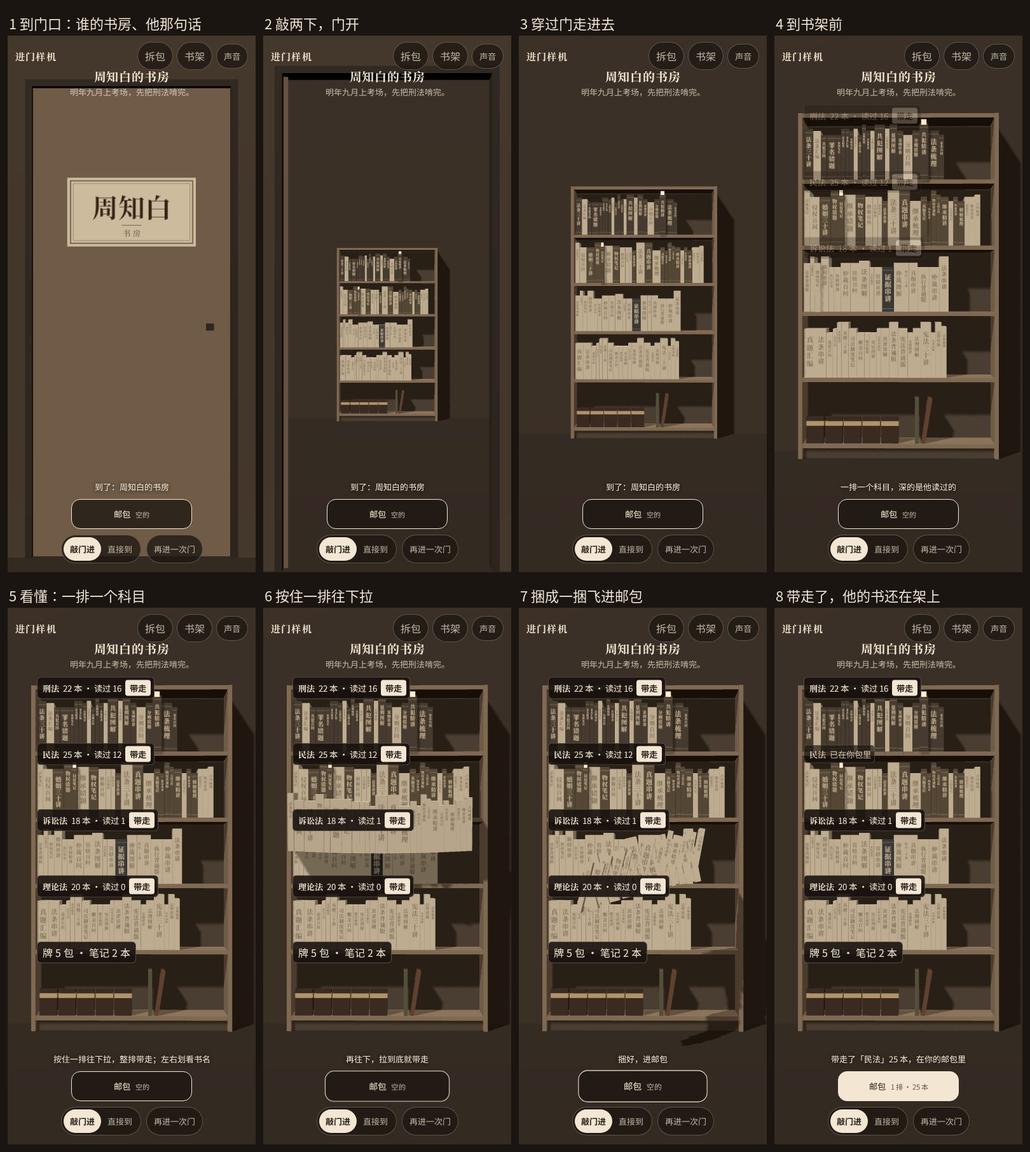
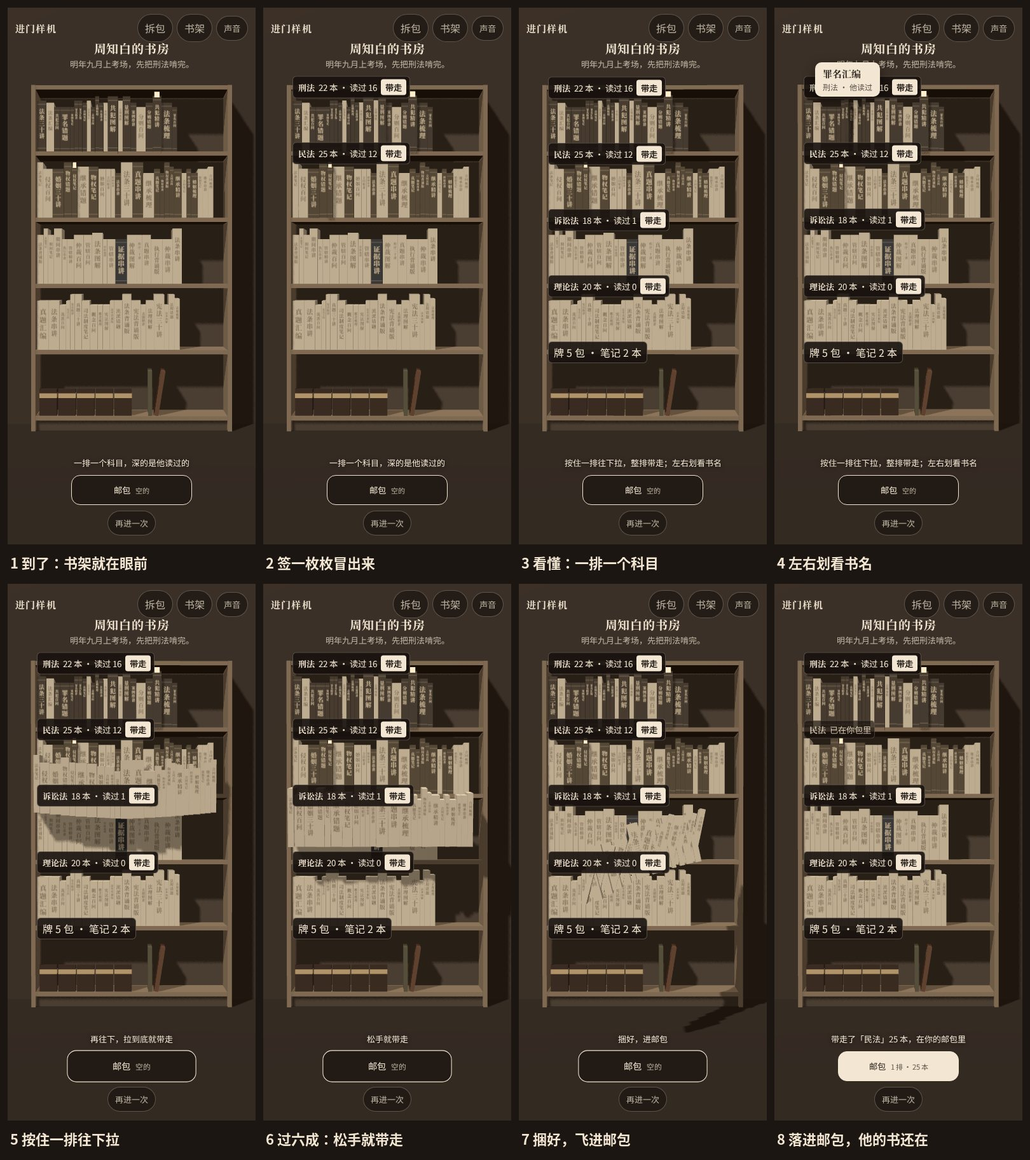
进门样机：进法定「直接到」（用户上手后定），默认直接到、去掉页面上的切换，敲门进留 ?way=knock 对照；流程测试按新默认改、对照的敲门进另走一遍；分镜图按新八拍重拍；说明与 STATUS 同步

diff --git a/lab/door.js b/lab/door.js
@@ -2,18 +2,19 @@
  * 外观是占位的，不在这里讨论。节拍照拆包那一轮定的「热闹」的力度来。人名、那句话、书名都是编的。
  *
  * 节拍：
- *   1 到门口 一扇门，门上一块门牌写着名字；屏幕顶上是「谁的书房」和他自己写的一句话（从头到尾都在）
- *   2 敲门   两下，门开，镜头穿过门走到书架前（点一下屏幕快进）；另一种进法「直接到」不要门，书架直接在眼前，两种对着比
- *   3 看懂   一座书架，一排一个科目；层板边上的签一枚枚冒出来（科目、多少本、读过多少），那一排书跟着抖一下。
+ *   1 到     点开链接，书架直接在眼前；屏幕顶上是「谁的书房」和他自己写的一句话（从头到尾都在）
+ *   2 看懂   一座书架，一排一个科目；层板边上的签一枚枚冒出来（科目、多少本、读过多少），那一排书跟着抖一下。
  *            读没读和书架样机同一套：浅的没读、深的读过、探出来带签的在读。最下面一层是他的牌盒和本子（样机里只是摆着）
- *   4 划过   手指按在书脊上左右划，碰到哪本哪本探头、报书名（只是看，不抽出来）
- *   5 带走   按住一排往下拉：这一排的一份（包着白纸，到你手里都是没读的）跟着手指一本本从架上出来，一本一声一震；
+ *   3 划过   手指按在书脊上左右划，碰到哪本哪本探头、报书名（只是看，不抽出来）
+ *   4 带走   按住一排往下拉：这一排的一份（包着白纸，到你手里都是没读的）跟着手指一本本从架上出来，一本一声一震；
  *            拉到底就带走，过了六成松手也带走，没到就弹回去。捆成一捆飞进底下的邮包。原来的书还在他的架上。
  *            层板上那枚签点一下，也是带走这一排
- *   6 邮包   点邮包看带走了什么；可以倒回去重来
+ *   5 邮包   点邮包看带走了什么；可以倒回去重来
  *
  * 结构：动画轨、声音、舞台、书的样子、架子都在 kit.js（和书架样机共用）；这里是门、这一位主人的书、带走的手势。
- * 调试：地址加 ?dev 显示帧率与状态，?way=direct 直接到；window.__lab 给测试脚本用。 */
+ * 进法：2026-11-12 用户在手机上两种都试过，定「直接到」，不要敲门那一段。敲门进（一扇门、门牌、敲两下、门开、镜头穿过门）
+ *   留在代码里对照用，地址加 ?way=knock 才走，页面上不再有切换。
+ * 调试：地址加 ?dev 显示帧率与状态；window.__lab 给测试脚本用。 */
 import { THREE, clamp, lerp, rad, E, vib, rng, createTracks, createAudio, createStage, lightCase, createBookKit, createCase, DIM, STN, CJK, PAPER } from "./kit.js";
 
 const Q = new URLSearchParams(location.search), DEV = Q.has("dev");
@@ -21,11 +22,11 @@ const $ = (s) => document.querySelector(s);
 
 /* ---------- 手感参数（要调就调这张表） ---------- */
 const P = {
-  knock1: .28, knock2: .5,       // 两下敲门各在什么时候
+  directLabels: .15, labelGap: .13,   // 到了以后签从什么时候开始冒、一枚隔多久
+  knock1: .28, knock2: .5,       // 以下四行只有 ?way=knock 用：两下敲门各在什么时候
   open: .74, openDur: .42,       // 门什么时候开、开多久
   push: .9, pushDur: .95,        // 镜头什么时候进门、走多久
-  labels: 1.5, labelGap: .13,    // 敲门进：签从什么时候开始冒、一枚隔多久
-  directLabels: .15,             // 直接到：签从什么时候开始冒
+  labels: 1.5,                   // 敲门进：签从什么时候开始冒
   pullPx: 150,                   // 往下拉多少像素算拉到底
   commit: .6,                    // 拉过这个比例松手就带走，没到弹回去
   outZ: 4, dropMax: 46,          // 带走的那一份：出了书架再往外多少厘米、跟着手指最多往下走多少厘米
@@ -100,7 +101,7 @@ const { w: caseW, h: caseH } = caseKit.build(W, R);
   for (let k = 0; k < PROPS.notes; k++) { box(1.9, 21, 15, x + 1 + (k ? 2.4 : 0), y0 + 10.4, -RECESS - 7.5, noteMats[k], k ? -.16 : 0); x += 2.2; }
 }
 
-/* ---------- 门：一面墙开一个门洞，门扇上钉着门牌 ---------- */
+/* ---------- 门（只有 ?way=knock 用）：一面墙开一个门洞，门扇上钉着门牌 ---------- */
 const DW = 86, DH = 204, EYE = 150, LOOK = 110, PLW = 56, PLH = 30;   // 门宽、门高、门牌挂多高、门外镜头看多高、门牌的宽与高
 const doorG = new THREE.Group(); scene.add(doorG);
 const doorPivot = new THREE.Group(); doorPivot.position.set(-DW / 2, 0, 0); doorG.add(doorPivot);
@@ -121,7 +122,7 @@ const doorPivot = new THREE.Group(); doorPivot.position.set(-DW / 2, 0, 0); door
 
 /* ---------- 状态 ---------- */
 const S = {
-  state: "boot", way: Q.get("way") === "direct" ? "direct" : "knock", ent: 0, lean: 0, hot: -1, pull: null, bag: [], fast: false, manual: false,
+  state: "boot", way: Q.get("way") === "knock" ? "knock" : "direct", ent: 0, lean: 0, hot: -1, pull: null, bag: [], fast: false, manual: false,
   t: 0, tEnter: 0, tIdle: 0, shake: 0, freeze: 0, lastTick: 0, par: { x: 0, y: 0, tx: 0, ty: 0 },
 };
 const CAM = { dist: 300, y: 80, fov: 34, wpp: 1, dz: 400, sd: 200 };
@@ -137,7 +138,7 @@ const SFX = {
   no() { tone({ f: 200, f2: 150, dur: .12, gain: .12, type: "triangle" }); },
 };
 
-/* ---------- 镜头：门外凑在门牌前，进了门整座书架装进一屏 ---------- */
+/* ---------- 镜头：整座书架装进一屏（敲门进时先在门外，再走进来） ---------- */
 function avail() {
   const vw = innerWidth, vh = innerHeight, portrait = vh >= vw, top = portrait ? 122 : 112, bot = portrait ? 178 : 156, side = portrait ? 12 : 28;
   return { vw, vh, top, bot, side, w: vw - 2 * side, h: vh - top - bot };
@@ -229,7 +230,6 @@ function ui() {
     : S.state === "pull" ? (pl && pl.pT >= P.commit ? "松手就带走" : "再往下，拉到底就带走")
       : S.state === "take" ? "捆好，进邮包"
         : S.last != null ? "带走了「" + ROWS[S.last].name + "」" + ROWS[S.last].n + " 本，在你的邮包里" : "按住一排往下拉，整排带走；左右划看书名";
-  document.querySelectorAll("#seg-way button").forEach((b) => b.setAttribute("aria-pressed", String(b.dataset.way === S.way)));
   $("#snd").setAttribute("aria-pressed", String(AU.on));
 }
 function showTip(b, x, y) {
@@ -255,7 +255,7 @@ function openSheet() {
 }
 const closeSheet = () => sheet.classList.remove("on");
 
-/* ---------- 进门 ---------- */
+/* ---------- 进门：直接到；敲门进只留作对照 ---------- */
 function enter(way) {
   clearTracks(); S.way = way || S.way; S.state = "door"; S.fast = false; S.pull = null; S.last = null; S.tEnter = S.t; S.tIdle = 0; setHot(-1); closeSheet(); bag.classList.remove("aim");
   labEls.forEach((o) => o.el.classList.remove("on")); owner.classList.add("on");          // 谁的书房、那句话：从到门口起就在顶上
@@ -365,7 +365,6 @@ function endPointer(ev) {
 }
 canvas.addEventListener("pointerup", endPointer); canvas.addEventListener("pointercancel", endPointer);
 canvas.addEventListener("pointerleave", (ev) => { if (ev.pointerType === "mouse" && G.id === -1 && S.state === "idle") setHot(-1); });
-document.querySelectorAll("#seg-way button").forEach((b) => b.addEventListener("click", () => { au(true); enter(b.dataset.way); }));
 $("#b-again").addEventListener("click", () => { au(true); enter(S.way); });
 bag.addEventListener("click", () => { au(true); if (S.state === "idle") openSheet(); });
 $("#b-close").addEventListener("click", closeSheet);
@@ -386,7 +385,7 @@ function tick(raw) {
   S.t += dt; S.shake *= Math.exp(-10 * raw);
   stepTracks(dt); placeCamera(raw); applyBooks(dt ? raw : 0); placeLabels();
   renderer.render(scene, camera);
-  if (devEl) devEl.textContent = S.state + " · " + S.way + (S.tIdle ? " · 进门到看懂 " + S.tIdle.toFixed(2) + " 秒" : "") + "\n" + fps.toFixed(0) + " fps · " + renderer.info.render.calls + " calls";
+  if (devEl) devEl.textContent = S.state + " · " + S.way + (S.tIdle ? " · 点开到能动 " + S.tIdle.toFixed(2) + " 秒" : "") + "\n" + fps.toFixed(0) + " fps · " + renderer.info.render.calls + " calls";
 }
 
 /* ---------- 开场 ---------- */

diff --git a/lab/door.html b/lab/door.html
@@ -18,11 +18,7 @@
   .bar h1 small{display:block;margin-top:5px;font:400 11px/1 "Noto Sans SC",sans-serif;letter-spacing:0;color:var(--ink-2)}
   .go,.snd,.mini{appearance:none;color:var(--ink-2);font:500 14px/1 inherit;font-family:inherit;padding:9px 11px;border-radius:999px;cursor:pointer;background:var(--pane);border:1px solid var(--line);white-space:nowrap;text-decoration:none}
   .snd[aria-pressed="false"]{text-decoration:line-through;opacity:.7}
-  .seg{display:flex;padding:3px;border-radius:999px;background:var(--pane);border:1px solid var(--line)}
-  .seg button{appearance:none;border:0;background:none;color:var(--ink-2);font:500 14px/1 inherit;font-family:inherit;padding:9px 12px;border-radius:999px;cursor:pointer;white-space:nowrap}
-  /* 选中：实心底、深字、加粗，不靠颜色区分 */
-  .seg button[aria-pressed="true"]{background:var(--ink);color:#2A221C;font-weight:700}
-  /* 进了门以后顶上的门牌：这是谁的书房、他自己写的一句话 */
+  /* 顶上的门牌：这是谁的书房、他自己写的一句话 */
   .owner{position:fixed;left:0;right:0;top:calc(52px + env(safe-area-inset-top,0px));padding:0 16px;text-align:center;pointer-events:none;opacity:0;transform:translateY(-8px);transition:opacity .25s,transform .3s}
   .owner.on{opacity:1;transform:none}
   .owner b{display:block;font:700 19px/1.25 "Noto Serif SC","Songti SC",serif;letter-spacing:.04em}
@@ -64,7 +60,7 @@
   .sheet .main{appearance:none;border:0;background:var(--ink);color:#2A221C;font:700 15px/1 inherit;font-family:inherit;padding:13px 22px;border-radius:12px;cursor:pointer}
   .dev{position:fixed;left:8px;top:110px;font:11px/1.4 "IBM Plex Mono",monospace;color:#fff;background:rgba(0,0,0,.5);padding:4px 6px;border-radius:4px;pointer-events:none;white-space:pre}
   .nogl{position:fixed;inset:0;display:grid;place-items:center;padding:24px;text-align:center;line-height:1.7}
-  @media (max-width:420px){.bar h1 small{display:none}.seg button{padding:9px 10px;font-size:13px}.mini{font-size:13px}}
+  @media (max-width:420px){.bar h1 small{display:none}.mini{font-size:13px}}
 </style>
 </head>
 <body>
@@ -82,11 +78,7 @@
   <p class="hint" id="hint" aria-live="polite">到了…</p>
   <button type="button" class="bag" id="bag">邮包<small id="bag-n">空的</small></button>
   <div class="ctl">
-    <div class="seg" id="seg-way" role="group" aria-label="进法">
-      <button type="button" data-way="knock" aria-pressed="true">敲门进</button>
-      <button type="button" data-way="direct" aria-pressed="false">直接到</button>
-    </div>
-    <button type="button" class="mini" id="b-again">再进一次门</button>
+    <button type="button" class="mini" id="b-again">再进一次</button>
   </div>
 </footer>
 <section class="sheet" id="sheet">

diff --git a/tools/tests/lab_door_test.py b/tools/tests/lab_door_test.py
@@ -1,5 +1,5 @@
-"""进门样机（lab/door.html）：到门口、敲门、进门、看懂（层板上的签）、左右划看书名、往下拉带走一排（没到弹回、过六成带走、拉到底自己带走）、
-点签带走、邮包、倒回去重来、直接到；手机竖屏走一遍真的指针操作，再按帧截分镜。
+"""进门样机（lab/door.html）：直接到（2026-11-12 用户定，页面上没有切换）、看懂（层板上的签）、左右划看书名、往下拉带走一排（没到弹回、过六成带走、
+拉到底自己带走）、点签带走、邮包、倒回去重来、再进一次；留作对照的敲门进（?way=knock）也走一遍；手机竖屏走真的指针操作，再按帧截分镜。
 用法：python3 tools/tests/lab_door_test.py           # 自己起模拟服务（端口 8796），软件渲染，约两三分钟
 截图落在 tools/out/lab/（已 gitignore）。样机看的是手感，这条测试只保证流程走得通、不报错。"""
 import os, sys, time, subprocess, urllib.request
@@ -42,11 +42,11 @@ try:
             pg.mouse.move(x, y); pg.mouse.down(); pg.wait_for_timeout(80); pg.mouse.move(x + 2, y + dy, steps=12); pg.wait_for_timeout(hold)
 
         pg.goto(B + "/lab/door.html?dev"); pg.wait_for_function("window.__lab", timeout=15000)
-        check("先到门口", st() == "door" and J("window.__lab.doorOn") and J("window.__lab.S.ent") < .05, st())
-        check("顶上写着谁的书房和他那句话", pg.locator("#owner.on b").inner_text() == J("window.__lab.OWNER.name") + "的书房" and pg.locator("#owner span").inner_text() == J("window.__lab.OWNER.line")); shot("1-door")
-        check("敲门进门后停在能动", idle(40), st()); pg.wait_for_timeout(400)
-        check("进门到看懂不超过三秒", 0 < J("window.__lab.S.tIdle") <= 3, J("window.__lab.S.tIdle"))
-        check("进了门，门收起来了", J("window.__lab.S.ent") == 1 and not J("window.__lab.doorOn"))
+        check("默认直接到：没有门，书架就在眼前", J("window.__lab.S.way") == "direct" and not J("window.__lab.doorOn") and J("window.__lab.S.ent") == 1, J("window.__lab.S.way"))
+        check("页面上没有进法的切换", pg.locator("#seg-way").count() == 0)
+        check("顶上写着谁的书房和他那句话", pg.locator("#owner.on b").inner_text() == J("window.__lab.OWNER.name") + "的书房" and pg.locator("#owner span").inner_text() == J("window.__lab.OWNER.line")); shot("1-arrive")
+        check("到了以后停在能动", idle(40), st()); pg.wait_for_timeout(400)
+        check("点开到能动不超过一秒半", 0 < J("window.__lab.S.tIdle") <= 1.5, J("window.__lab.S.tIdle"))
         check("五枚签都出来了（四排书加一层牌和本子）", pg.locator("#labs .lab.on").count() == 5, pg.locator("#labs .lab.on").count()); shot("2-in")
 
         # 左右划：看书名，不抽出来
@@ -82,28 +82,37 @@ try:
         pg.click("#b-reset"); pg.wait_for_timeout(350)
         check("倒回去重来", bag_n() == 0 and not J("window.__lab.ROWS.some(r => r.taken)") and pg.locator("#sheet.on").count() == 0 and pg.locator("#bag-n").inner_text() == "空的")
 
-        # 另一种进法：直接到
-        pg.click('#seg-way [data-way="direct"]'); check("直接到：没有门", st() == "door" and not J("window.__lab.doorOn") and J("window.__lab.S.ent") == 1, st())
-        check("直接到一秒多就能动", idle(20) and 0 < J("window.__lab.S.tIdle") <= 1.5, J("window.__lab.S.tIdle")); shot("8-direct")
-        pg.click("#b-again"); check("再进一次门", st() == "door"); idle(20)
-        pg.click('#seg-way [data-way="knock"]'); check("换回敲门进", st() == "door" and J("window.__lab.doorOn")); check("又进来了", idle(40), st())
+        pg.click("#b-again"); check("再进一次：签收回去重新冒", st() == "door" and pg.locator("#labs .lab.on").count() < 5 and not J("window.__lab.doorOn"), st())
+        check("又到了", idle(20) and pg.locator("#labs .lab.on").count() == 5, st())
         check("页面没报错", not errs, "; ".join(errs)[:300])
+
+        # 留作对照的敲门进：地址加 ?way=knock 才走
+        pg.goto(B + "/lab/door.html?dev&way=knock"); pg.wait_for_function("window.__lab", timeout=15000)
+        check("敲门进：先到门口", st() == "door" and J("window.__lab.doorOn") and J("window.__lab.S.ent") < .05, st()); shot("8-knock")
+        check("敲门进：三秒内进来、门收起来", idle(40) and 0 < J("window.__lab.S.tIdle") <= 3 and J("window.__lab.S.ent") == 1 and not J("window.__lab.doorOn"), J("window.__lab.S.tIdle"))
+        check("敲门进也没报错", not errs, "; ".join(errs)[:300])
 
         # 分镜：按帧走，截关键帧（给人看节拍用）
         pg.goto(B + "/lab/door.html"); pg.wait_for_function("window.__lab", timeout=15000)
-        J("window.__lab.manual(true); window.__lab.enter('knock')"); step = lambda s: J("window.__lab.step(%s)" % s)
+        J("window.__lab.manual(true); window.__lab.enter()"); step = lambda s: J("window.__lab.step(%s)" % s)
         kf = lambda name: (pg.wait_for_timeout(450), pg.screenshot(path=os.path.join(OUT, "door-kf-%s.png" % name)))
-        step(.2); kf("1"); step(.82); kf("2"); step(.4); kf("3"); step(.38); kf("4")
-        step(1.2); pg.wait_for_function("document.querySelectorAll('#labs .lab.on').length === 5", timeout=30000); kf("5")
-        J("window.__lab.pullTo(1, .55)"); step(.5); kf("6")
-        J("window.__lab.pullTo(1, 1.02)"); step(.62); kf("7"); step(.8)
-        pg.wait_for_function("document.querySelector('#bag').classList.contains('full')", timeout=30000); kf("8")
+        labs_on = lambda n: pg.wait_for_function("document.querySelectorAll('#labs .lab.on').length === %d" % n, timeout=30000)
+        step(.1); kf("1")                                                    # 到了：书架和顶上那句话，签还没出来
+        step(.22); labs_on(2); kf("2")                                       # 签一枚枚冒出来
+        step(1.0); labs_on(5); pg.wait_for_function("window.__lab.state === 'idle'", timeout=30000); kf("3")   # 看懂
+        r = J("window.__lab.rectOf(window.__lab.ROWS[0].books[6].i)"); pg.mouse.move(r["cx"], r["cy"]); pg.mouse.down(); step(.3)
+        pg.wait_for_function("document.querySelector('#tip').classList.contains('on')", timeout=30000); kf("4")   # 左右划看书名
+        pg.mouse.up(); step(.3)
+        J("window.__lab.pullTo(1, .4)"); step(.5); pg.wait_for_function("getComputedStyle(document.querySelector('#tip')).opacity === '0'", timeout=30000); kf("5")                   # 往下拉，出来一半
+        J("window.__lab.pullTo(1, .8)"); step(.4); pg.wait_for_function("document.querySelector('#hint').textContent === '松手就带走'", timeout=30000); kf("6")   # 过了六成
+        J("window.__lab.pullTo(1, 1.02)"); step(.62); kf("7"); step(.8)      # 捆好，飞进邮包
+        pg.wait_for_function("document.querySelector('#bag').classList.contains('full')", timeout=30000); kf("8")   # 落进邮包
         ctx.close()
 
         # 桌面横屏：鼠标移过去就探头，点签带走
         ctx = br.new_context(viewport={"width": 1280, "height": 800}, device_scale_factor=1, service_workers="block"); pg = ctx.new_page(); errs = []
         pg.on("pageerror", lambda e: errs.append(str(e)))
-        pg.goto(B + "/lab/door.html?way=direct"); pg.wait_for_function("window.__lab && window.__lab.state === 'idle'", timeout=60000); pg.wait_for_timeout(300)
+        pg.goto(B + "/lab/door.html"); pg.wait_for_function("window.__lab && window.__lab.state === 'idle'", timeout=60000); pg.wait_for_timeout(300)
         i = pg.evaluate("window.__lab.ROWS[1].books[5].i"); r = pg.evaluate("window.__lab.rectOf(%d)" % i)
         pg.mouse.move(r["cx"] - 20, r["cy"]); pg.mouse.move(r["cx"], r["cy"], steps=4); pg.wait_for_timeout(200)
         check("桌面：鼠标移上去就探头", pg.evaluate("window.__lab.S.hot") == i, pg.evaluate("window.__lab.S.hot")); pg.screenshot(path=os.path.join(OUT, "door-desk-1-hover.png"))

diff --git a/STATUS.md b/STATUS.md
@@ -2,8 +2,8 @@
 type: status
 status: active
 cluster: product
-stage: 2026-11-12 三个瞬间的样机都做出来了：拆包（用户定「热闹」）、一眼看全（立体书架，用户答「过」）、进门（上线，等上手）。三个都过了以后选外观。方向（2026-11-11 定）：立体做到物件一层（书架、书、卡包、牌、本子是真三维），先用能动的灰盒样机把三个瞬间按手感做对，再选外观；样机在 lab/。现有纸模版（书墙、档案架、笔记本架三件家具，2026-11-09 到 11-11 完成）原样留作每天用的工具，外观不再加工；墓园系列、装帧库、场景图冻结留在仓库；能走的三维世界（yanxilu-world 仓库）放下
-next: 2026-11-12 进门样机已上线（线上 /lab/door.html，分镜图 docs/lab-door-frames.jpg），等用户在手机上上手过门：从点开到看懂他在学什么够不够快、「敲门进」还是「直接到」、往下拉带走跟不跟手和六成这条线、往下拉与左右划会不会误触、拉着带走还是点签带走、「带走的是一份，他的书还在」看不看得出来（六条在 lab/README.md）。过了以后三个瞬间就齐了，下一步是选外观（先提生产方式和候选，等用户定）。拆包那边跟手、快慢、光晕、第三第五包四条用户没提，先不动。纸模版原样留作日常工具，外观不再加工。
+stage: 2026-11-12 三个瞬间的样机都做出来了：拆包（用户定「热闹」）、一眼看全（立体书架，用户答「过」）、进门（用户定进法「直接到」，其余几条等回话）。三个都过了以后选外观。方向（2026-11-11 定）：立体做到物件一层（书架、书、卡包、牌、本子是真三维），先用能动的灰盒样机把三个瞬间按手感做对，再选外观；样机在 lab/。现有纸模版（书墙、档案架、笔记本架三件家具，2026-11-09 到 11-11 完成）原样留作每天用的工具，外观不再加工；墓园系列、装帧库、场景图冻结留在仓库；能走的三维世界（yanxilu-world 仓库）放下
+next: 2026-11-12 进门样机用户上手后定了进法「直接到」（已改成默认并上线，线上 /lab/door.html，分镜图 docs/lab-door-frames.jpg 已重拍）。等用户说进门这一关过没过，没提的几条是：看懂够不够快还缺什么、往下拉带走跟不跟手和六成这条线、往下拉与左右划会不会误触、拉着带走还是点签带走、「带走的是一份，他的书还在」看不看得出来（在 lab/README.md）。过了以后三个瞬间就齐了，下一步是选外观（先提生产方式和候选，等用户定，用户没点头不开工）。拆包那边跟手、快慢、光晕、第三第五包四条用户没提，先不动。纸模版原样留作日常工具，外观不再加工。
 blocked_by: 无
 updated: 2026-11-12
 ---
@@ -11,6 +11,7 @@ updated: 2026-11-12
 # 状态
 
 ## 现在停在哪
+- 2026-11-12 用户在手机上试过进门样机，进法答「直接到」。`lab/door.js` 默认就是直接到（点开链接书架直接在眼前，顶上是谁的书房和他那句话，签一枚枚冒出来，约一秒能动），页面上的「敲门进 / 直接到」切换去掉，「再进一次门」改叫「再进一次」；敲门进（门、门牌、敲两下、镜头穿过门，约 2.4 秒）留在代码里对照，地址加 `?way=knock` 才走。流程测试改成按新默认走、对照的敲门进另走一遍，全过；分镜图按新的八拍重拍。进门这一关其余几条（看懂够不够快、往下拉跟不跟手与六成线、误触、拉还是点、「带走的是一份」看不看得出）用户还没说。
 - 2026-11-12 第三个瞬间「进门」的能动灰盒样机做完上线：`lab/door.html` + `lab/door.js`。到门口（一扇门、门牌写名字，屏幕顶上是「谁的书房」和他自己写的一句话）→ 敲两下、门开、镜头穿过门走到书架前（点一下快进；另有「直接到」不要门，两种对着比，「再进一次门」可反复进）→ 一座书架一排一个科目，层板边上的签一枚枚冒出来（科目、多少本、读过多少），那一排书跟着抖一下；最下面一层是他的牌盒和本子（只是摆着）→ 手指左右划看书名（不抽出来）→ 按住一排往下拉，这一排的一份（白纸包着，到你手里都是没读的）跟着手指一本本出来，一本一声一震，拉到底就带走、过六成松手也带走、没到弹回，捆成一捆飞进底下的邮包，他的书还在架上；点层板上的签也能带走 → 点邮包看带走了什么，可倒回去重来。敲门进从进门到能动 2.4 秒，直接到 1 秒。人名、那句话、书名是编的；没接真实的分享链接，牌盒和本子不能带走，带走的不保存。测试 `tools/tests/lab_door_test.py` 通过，分镜图 `docs/lab-door-frames.jpg`。没法由 Claude 验证的：真机帧率与手感、微信内置浏览器；苹果手机没有震动。
 - 2026-11-12 用户在手机上试过书架样机，答「过，做进门」。读没读靠物件的样子（没读包白纸、读过露布面、在读探出带签）这套做法随这一关一起过了，进门样机沿用。
 - 2026-11-12 第二个瞬间「一眼看全」的能动灰盒样机做完上线：`lab/shelf.html` + `lab/shelf.js`。一座立体书架，40 / 120 / 300 本都整座装进一屏（架子的宽和层数跟着本数与屏幕形状自己定）。读没读只靠物件的样子：没读的包白纸（浅）、读过的露布面（深）、在读的探出来一截顶上露一枚签；这是提给用户判断的做法，还没定。节拍：上架（一本本推进去、镜头退到看全，点一下快进）→ 手指按在书脊上划，碰到哪本哪本探头，一本一声一震，手指上方小签报书名（鼠标移过去就探头）→ 松手抽出，转过封面飞到眼前，左右拖动转着看，底下改「没读 / 在读 / 读过」→ 点「放回去」或点空白放回 → 「按类放 / 按读没读放」整面一起飞，按读没读放时层板边上有每组本数的小签，改过状态的书放回去站到新的一组。书名作者是编的，没接真实书目，改的状态不保存。底下有一行字报总数与三种各多少（纯文字，不是统计牌；上手时请用户先不看它）。测试 `tools/tests/lab_shelf_test.py`（真指针走一遍加按帧截分镜，手机竖屏与桌面横屏）通过，分镜图 `docs/lab-shelf-frames.jpg`。没法由 Claude 验证的：真机帧率与手感、微信内置浏览器；苹果手机没有震动。没做的：接真实书目与保存、书皮外观、书架放不下时怎么办（现在是架子无限长大）。
@@ -102,6 +103,7 @@ updated: 2026-11-12
 - 线上 `/world` 要等 Baba 另克隆 yanxilu-world 并在本克隆里放一个 `world` 链接（用户跑一次部署脚本里的命令），在那之前 `/world` 返回 404。
 
 ## 已定决策
+- 2026-11-12 用户定：进门的进法用「直接到」，点开别人的链接书架直接在眼前，不要敲门、开门、镜头穿过门那一段。以后做正式版的分享链接落地页照这个来：第一眼就是主人的一句话加他摆好的几排。
 - 2026-11-12 用户定：书架样机（一眼看全）过门。读没读用物件的样子区分（没读包白纸浅、读过露布面深、在读探出一截带签），不靠颜色、不贴标签；选外观时这三种状态的区分要保住。
 - 2026-11-12 技术（Claude 定）：做第三个样机时把公用的零件抽到 `lab/kit.js`（动画轨、声音、舞台与光、书脊图集与实例化的书、架子），书架和进门共用，以后选了外观书和架子只改这一处；pack.js 最早写的自带一份，没动。进门里「带走的一份」是同一批书的第二个 InstancedMesh 加一张全是白纸包的图集；往下拉和左右划靠起手那一下的方向分（往下的分量比横向大一成才算拉）；门牌上的小字改用网页排在屏幕顶上（画在贴图上看不清）。
 - 2026-11-12 用户定：拆包的开法用「热闹」（顿帧、闪光、火星、镜头一震）。后面两个瞬间的节拍照这个力度做。
@@ -182,6 +184,7 @@ updated: 2026-11-12
 - 宝石规则是否改成按"能不能回忆"定（沿自 BRIEF）。
 
 ## 日志
+- 2026-11-12 用户答「直接到」：door.js 默认进法改成直接到、去掉切换（敲门进留 ?way=knock 对照），door.html 去掉切换条和用不到的样式；lab_door_test.py 按新默认改、分镜八拍重排，docs/lab-door-frames.jpg 重拍；lab/README.md、CLAUDE.md、STATUS 同步。
 - 2026-11-12 用户答「过，做进门」：书架过门记进已定决策；查「三秒看懂一个人」与「一个动作带走一整套」的做法（Letterboxd 四部最爱、模拟人生图库、Notion 复制公开页面三条进 REFERENCES，没有能直接用的）；抽公用模块 lab/kit.js，shelf.js 改成引用它（书架测试重跑通过）；做进门样机 lab/door.html + door.js，测试 lab_door_test.py，分镜图 docs/lab-door-frames.jpg；三页顶栏互相加链接；lab/README.md 与项目说明更新。三条流程测试（拆包、书架、进门）都过。
 - 2026-11-12 用户答「热闹」：拆包默认开法定下，去掉切换按钮；查三维书架的现成方案（KoreShelf、complete-shelf、Shelfieline、Book Riot 四条进 REFERENCES，没有能直接用的）；做第二个瞬间的样机 lab/shelf.html + shelf.js，测试 lab_shelf_test.py，分镜图 docs/lab-shelf-frames.jpg；lab/README.md 改成三个瞬间的进度表加两份上手清单；项目说明补测试命令。两条流程测试（lab_shelf_test、lab_pack_test）都过；软件渲染下显卡排队会让网页层的淡入晚到，分镜截图前改成等底部按钮真的回来。
 - 2026-11-11 拆包样机：lab/（页面、脚本、说明）、vendor/three、lab_pack_test.py、baba_mock 加 /lab、src/sw.js 放过 /lab/、分镜图 docs/lab-pack-frames.jpg；REFERENCES 加开包三条；CLAUDE.md 记方向与样机。

diff --git a/lab/README.md b/lab/README.md
@@ -6,7 +6,7 @@
 |---|---|---|---|
 | 拆包 | `index.html` + `pack.js` | `/lab` | 2026-11-12 用户上手后定「热闹」 |
 | 一眼看全 | `shelf.html` + `shelf.js` | `/lab/shelf.html` | 2026-11-12 用户上手后：过 |
-| 进门 | `door.html` + `door.js` | `/lab/door.html` | 2026-11-12 做完上线，等上手 |
+| 进门 | `door.html` + `door.js` | `/lab/door.html` | 2026-11-12 用户上手后定进法「直接到」；其余几条等回话 |
 
 三个都过了以后选外观。公用的零件（动画轨、声音、舞台、书的样子、架子）在 `kit.js`，书架和进门两页共用；`pack.js` 是最早写的，自带一份。
 
@@ -46,34 +46,35 @@
 
 点开别人的链接，三秒看懂他在学什么，一个动作带走一排。人名、那句话、书名都是编的。
 
-1. 到门口：一扇门，门上一块门牌写着名字；屏幕顶上是「谁的书房」和他自己写的一句话。
-2. 敲门进：敲两下，门开，镜头穿过门走到书架前，点一下屏幕快进。底下可以换成「直接到」（没有门，书架直接在眼前），两种对着比；「再进一次门」可以反复进。
-3. 看懂：一座书架，一排一个科目。层板边上的签一枚枚冒出来（科目、多少本、读过多少），那一排书跟着抖一下。读没读和书架样机同一套：浅的没读、深的读过、探出来带签的在读。最下面一层是他的牌盒和本子，样机里只是摆着。
-4. 看书名：手指按在书脊上左右划，碰到哪本哪本探头、报书名；只是看，不抽出来。
-5. 带走一排：按住一排往下拉，这一排的一份（包着白纸，到你手里都是没读的）跟着手指一本本从架上出来，一本一声一震；拉到底就带走，过了六成松手也带走，没到就弹回去。捆成一捆飞进底下的邮包，他的书还在架上。层板上那枚签点一下，也是带走这一排。
-6. 邮包：点开看带走了什么，可以倒回去重来。
+进法：2026-11-12 用户在手机上两种都试过，定「直接到」，不要敲门那一段。「敲门进」（一扇门、门牌、敲两下、门开、镜头穿过门，约 2.4 秒）留在 `door.js` 里对照用，地址加 `?way=knock` 才走，页面上不再有切换。
+
+1. 到：点开链接，书架直接在眼前；屏幕顶上是「谁的书房」和他自己写的一句话。约一秒就能动。
+2. 看懂：一座书架，一排一个科目。层板边上的签一枚枚冒出来（科目、多少本、读过多少），那一排书跟着抖一下。读没读和书架样机同一套：浅的没读、深的读过、探出来带签的在读。最下面一层是他的牌盒和本子，样机里只是摆着。
+3. 看书名：手指按在书脊上左右划，碰到哪本哪本探头、报书名；只是看，不抽出来。
+4. 带走一排：按住一排往下拉，这一排的一份（包着白纸，到你手里都是没读的）跟着手指一本本从架上出来，一本一声一震；拉到底就带走，过了六成松手也带走，没到就弹回去。捆成一捆飞进底下的邮包，他的书还在架上。层板上那枚签点一下，也是带走这一排。
+5. 邮包：点开看带走了什么，可以倒回去重来。底下「再进一次」可以反复看到的那一下。
 
 上手时请留意的几件事：
 
 1. 从点开到看懂他在学什么，够不够快。顶上那句话加四排的签，是不是就够了，还缺什么。
-2. 「敲门进」和「直接到」要哪种；敲门那一秒多，第三次、第五次进还耐不耐烦。
+2. 进法：已定「直接到」（2026-11-12）。
 3. 往下拉带走：跟不跟手，一本一声对不对，六成这个线松手带走是太容易还是太难。
 4. 往下拉和左右划会不会互相误触。
 5. 拉着带走和点签带走，你实际会用哪个。
 6. 带走的是一份白纸包着的、他的书还在架上，这个意思看不看得出来。
 
-节拍和强弱都在 `door.js` 开头的 `P` 一张表里（两下敲门、开门、进门各在什么时候，往下拉多少算到底，过几成松手带走，收拢和飞多久）。样机里没有接真实的分享链接，牌盒和本子不能带走，带走的东西不保存。
+节拍和强弱都在 `door.js` 开头的 `P` 一张表里（签什么时候开始冒、一枚隔多久，往下拉多少算到底，过几成松手带走，收拢和飞多久；敲门进的四行只有 `?way=knock` 用）。样机里没有接真实的分享链接，牌盒和本子不能带走，带走的东西不保存。
 
 ## 技术
 
-three.js 0.186（`vendor/three/`，自带）只画物件，字用网页排；声音是 WebAudio 现场合成的，没有音频文件；苹果手机没有震动。书架上的书是一个 InstancedMesh（三百本也只画两三次），书脊的字画在一张图集上；抽出来的那一本换成单独的模型；进门页里带走的那一份是同一批书的第二个 InstancedMesh，用一张全是白纸包的图集。地址加 `?dev` 显示帧率和状态（进门页还显示从进门到能动用了几秒），书架页加 `?n=300` 直接进三百本，进门页加 `?way=direct` 直接到。
+three.js 0.186（`vendor/three/`，自带）只画物件，字用网页排；声音是 WebAudio 现场合成的，没有音频文件；苹果手机没有震动。书架上的书是一个 InstancedMesh（三百本也只画两三次），书脊的字画在一张图集上；抽出来的那一本换成单独的模型；进门页里带走的那一份是同一批书的第二个 InstancedMesh，用一张全是白纸包的图集。地址加 `?dev` 显示帧率和状态（进门页还显示从点开到能动用了几秒），书架页加 `?n=300` 直接进三百本，进门页加 `?way=knock` 走留作对照的敲门进。
 
 测试（软件渲染，各约两三分钟，截图落在 `tools/out/lab/`）：
 
 ```
 python3 tools/tests/lab_pack_test.py     # 拆包：热闹（默认）与安静各走一遍
 python3 tools/tests/lab_shelf_test.py    # 书架：划过、抽出、改状态、放回、换排法、换本数，整座装得进一屏
-python3 tools/tests/lab_door_test.py     # 进门：敲门进、看懂、左右划、往下拉带走（弹回、过六成、拉到底）、点签带走、邮包、直接到
+python3 tools/tests/lab_door_test.py     # 进门：直接到、看懂、左右划、往下拉带走（弹回、过六成、拉到底）、点签带走、邮包、再进一次；对照的敲门进也走一遍
 ```
 
 分镜图：`docs/lab-pack-frames.jpg`、`docs/lab-shelf-frames.jpg`、`docs/lab-door-frames.jpg`。
